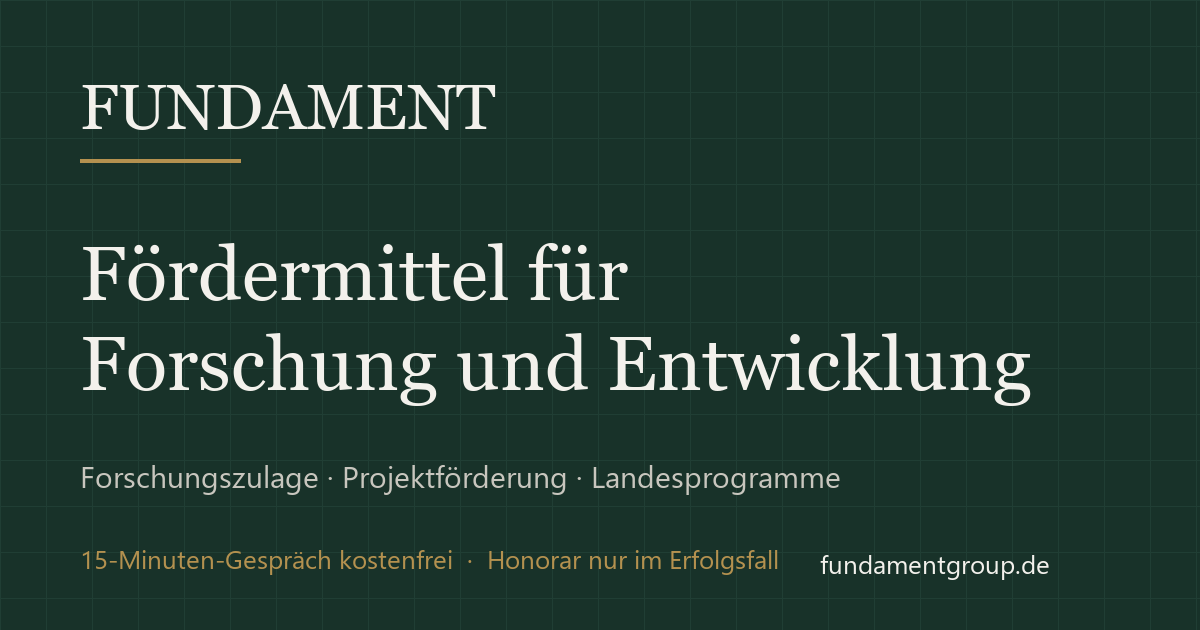
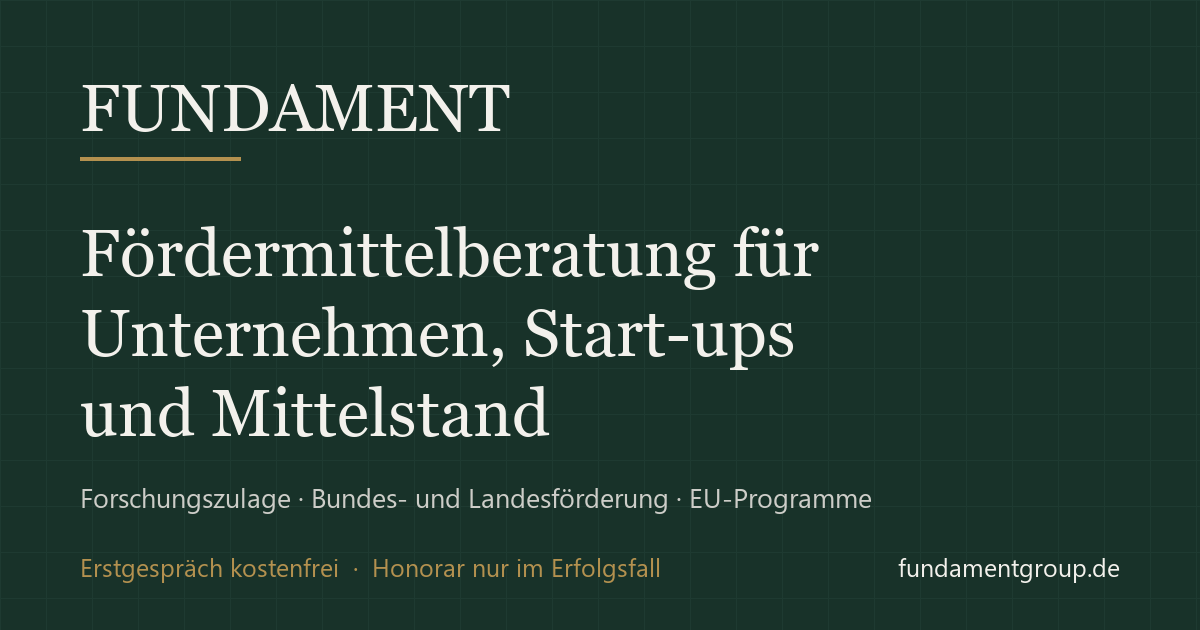
Abschlussbericht A, README, Kopfzeile bei mittleren Breiten, Prüfbericht

diff --git a/forschungszulage-erfolgshonorar/index.html b/forschungszulage-erfolgshonorar/index.html
@@ -20,7 +20,7 @@
 <meta property="og:image" content="https://fundamentgroup.de/og-image.png">
 <meta property="og:image:width" content="1200">
 <meta property="og:image:height" content="630">
-<meta property="og:image:alt" content="Fundament GmbH: Fördermittelberatung für Forschung und Entwicklung">
+<meta property="og:image:alt" content="Fundament GmbH: Fördermittelberatung für Unternehmen, Start-ups und Mittelstand">
 <meta property="og:locale" content="de_DE">
 <meta name="twitter:card" content="summary_large_image">
 <meta name="twitter:title" content="Forschungszulage-Beratung auf Erfolgsbasis: Honorarmodelle und worauf Sie achten sollten | Fundament GmbH">

diff --git a/forschungszulage-steuerberater/index.html b/forschungszulage-steuerberater/index.html
@@ -20,7 +20,7 @@
 <meta property="og:image" content="https://fundamentgroup.de/og-image.png">
 <meta property="og:image:width" content="1200">
 <meta property="og:image:height" content="630">
-<meta property="og:image:alt" content="Fundament GmbH: Fördermittelberatung für Forschung und Entwicklung">
+<meta property="og:image:alt" content="Fundament GmbH: Fördermittelberatung für Unternehmen, Start-ups und Mittelstand">
 <meta property="og:locale" content="de_DE">
 <meta name="twitter:card" content="summary_large_image">
 <meta name="twitter:title" content="Forschungszulage für Steuerberater und Kanzleien: Rollen, Ablauf und Zusammenarbeit | Fundament GmbH">

diff --git a/foerdermittelberatung-bayern/index.html b/foerdermittelberatung-bayern/index.html
@@ -20,7 +20,7 @@
 <meta property="og:image" content="https://fundamentgroup.de/og-image.png">
 <meta property="og:image:width" content="1200">
 <meta property="og:image:height" content="630">
-<meta property="og:image:alt" content="Fundament GmbH: Fördermittelberatung für Forschung und Entwicklung">
+<meta property="og:image:alt" content="Fundament GmbH: Fördermittelberatung für Unternehmen, Start-ups und Mittelstand">
 <meta property="og:locale" content="de_DE">
 <meta name="twitter:card" content="summary_large_image">
 <meta name="twitter:title" content="Fördermittelberatung in Bayern: Forschungszulage und weitere Programme | Fundament GmbH">

diff --git a/forschungszulage/index.html b/forschungszulage/index.html
@@ -20,7 +20,7 @@
 <meta property="og:image" content="https://fundamentgroup.de/og-image.png">
 <meta property="og:image:width" content="1200">
 <meta property="og:image:height" content="630">
-<meta property="og:image:alt" content="Fundament GmbH: Fördermittelberatung für Forschung und Entwicklung">
+<meta property="og:image:alt" content="Fundament GmbH: Fördermittelberatung für Unternehmen, Start-ups und Mittelstand">
 <meta property="og:locale" content="de_DE">
 <meta name="twitter:card" content="summary_large_image">
 <meta name="twitter:title" content="Forschungszulage beantragen: Voraussetzungen, Ablauf, Förderhöhe | Fundament GmbH">

diff --git a/wissen/rueckfrage-teilablehnung/index.html b/wissen/rueckfrage-teilablehnung/index.html
@@ -20,7 +20,7 @@
 <meta property="og:image" content="https://fundamentgroup.de/og-image.png">
 <meta property="og:image:width" content="1200">
 <meta property="og:image:height" content="630">
-<meta property="og:image:alt" content="Fundament GmbH: Fördermittelberatung für Forschung und Entwicklung">
+<meta property="og:image:alt" content="Fundament GmbH: Fördermittelberatung für Unternehmen, Start-ups und Mittelstand">
 <meta property="og:locale" content="de_DE">
 <meta name="twitter:card" content="summary_large_image">
 <meta name="twitter:title" content="Forschungszulage: Rückfrage, Widerspruch, Teilablehnung | Fundament GmbH">

diff --git a/foerdermittel/index.html b/foerdermittel/index.html
@@ -20,7 +20,7 @@
 <meta property="og:image" content="https://fundamentgroup.de/og-image.png">
 <meta property="og:image:width" content="1200">
 <meta property="og:image:height" content="630">
-<meta property="og:image:alt" content="Fundament GmbH: Fördermittelberatung für Forschung und Entwicklung">
+<meta property="og:image:alt" content="Fundament GmbH: Fördermittelberatung für Unternehmen, Start-ups und Mittelstand">
 <meta property="og:locale" content="de_DE">
 <meta name="twitter:card" content="summary_large_image">
 <meta name="twitter:title" content="Fördermittel für innovative Unternehmen im Überblick | Fundament GmbH">

diff --git a/wissen/forschungszulage-2026/index.html b/wissen/forschungszulage-2026/index.html
@@ -20,7 +20,7 @@
 <meta property="og:image" content="https://fundamentgroup.de/og-image.png">
 <meta property="og:image:width" content="1200">
 <meta property="og:image:height" content="630">
-<meta property="og:image:alt" content="Fundament GmbH: Fördermittelberatung für Forschung und Entwicklung">
+<meta property="og:image:alt" content="Fundament GmbH: Fördermittelberatung für Unternehmen, Start-ups und Mittelstand">
 <meta property="og:locale" content="de_DE">
 <meta name="twitter:card" content="summary_large_image">
 <meta name="twitter:title" content="Forschungszulage 2026: Änderungen für den Mittelstand | Fundament GmbH">

diff --git a/forschungszulage-automobilzulieferer/index.html b/forschungszulage-automobilzulieferer/index.html
@@ -20,7 +20,7 @@
 <meta property="og:image" content="https://fundamentgroup.de/og-image.png">
 <meta property="og:image:width" content="1200">
 <meta property="og:image:height" content="630">
-<meta property="og:image:alt" content="Fundament GmbH: Fördermittelberatung für Forschung und Entwicklung">
+<meta property="og:image:alt" content="Fundament GmbH: Fördermittelberatung für Unternehmen, Start-ups und Mittelstand">
 <meta property="og:locale" content="de_DE">
 <meta name="twitter:card" content="summary_large_image">
 <meta name="twitter:title" content="Forschungszulage für Automobil- und Zulieferindustrie | Fundament GmbH">

diff --git a/wissen/forschungszulage-rueckwirkend/index.html b/wissen/forschungszulage-rueckwirkend/index.html
@@ -20,7 +20,7 @@
 <meta property="og:image" content="https://fundamentgroup.de/og-image.png">
 <meta property="og:image:width" content="1200">
 <meta property="og:image:height" content="630">
-<meta property="og:image:alt" content="Fundament GmbH: Fördermittelberatung für Forschung und Entwicklung">
+<meta property="og:image:alt" content="Fundament GmbH: Fördermittelberatung für Unternehmen, Start-ups und Mittelstand">
 <meta property="og:locale" content="de_DE">
 <meta name="twitter:card" content="summary_large_image">
 <meta name="twitter:title" content="Forschungszulage rückwirkend beantragen: Fristen 2026 | Fundament GmbH">

diff --git a/forschungszulage-medizintechnik/index.html b/forschungszulage-medizintechnik/index.html
@@ -20,7 +20,7 @@
 <meta property="og:image" content="https://fundamentgroup.de/og-image.png">
 <meta property="og:image:width" content="1200">
 <meta property="og:image:height" content="630">
-<meta property="og:image:alt" content="Fundament GmbH: Fördermittelberatung für Forschung und Entwicklung">
+<meta property="og:image:alt" content="Fundament GmbH: Fördermittelberatung für Unternehmen, Start-ups und Mittelstand">
 <meta property="og:locale" content="de_DE">
 <meta name="twitter:card" content="summary_large_image">
 <meta name="twitter:title" content="Forschungszulage für Medizintechnik und Life Science | Fundament GmbH">

diff --git a/forschungszulage-elektrotechnik/index.html b/forschungszulage-elektrotechnik/index.html
@@ -20,7 +20,7 @@
 <meta property="og:image" content="https://fundamentgroup.de/og-image.png">
 <meta property="og:image:width" content="1200">
 <meta property="og:image:height" content="630">
-<meta property="og:image:alt" content="Fundament GmbH: Fördermittelberatung für Forschung und Entwicklung">
+<meta property="og:image:alt" content="Fundament GmbH: Fördermittelberatung für Unternehmen, Start-ups und Mittelstand">
 <meta property="og:locale" content="de_DE">
 <meta name="twitter:card" content="summary_large_image">
 <meta name="twitter:title" content="Forschungszulage für Elektrotechnik und Elektronik | Fundament GmbH">

diff --git a/forschungszulage-chemie/index.html b/forschungszulage-chemie/index.html
@@ -20,7 +20,7 @@
 <meta property="og:image" content="https://fundamentgroup.de/og-image.png">
 <meta property="og:image:width" content="1200">
 <meta property="og:image:height" content="630">
-<meta property="og:image:alt" content="Fundament GmbH: Fördermittelberatung für Forschung und Entwicklung">
+<meta property="og:image:alt" content="Fundament GmbH: Fördermittelberatung für Unternehmen, Start-ups und Mittelstand">
 <meta property="og:locale" content="de_DE">
 <meta name="twitter:card" content="summary_large_image">
 <meta name="twitter:title" content="Forschungszulage für Chemie und Verfahrenstechnik | Fundament GmbH">
